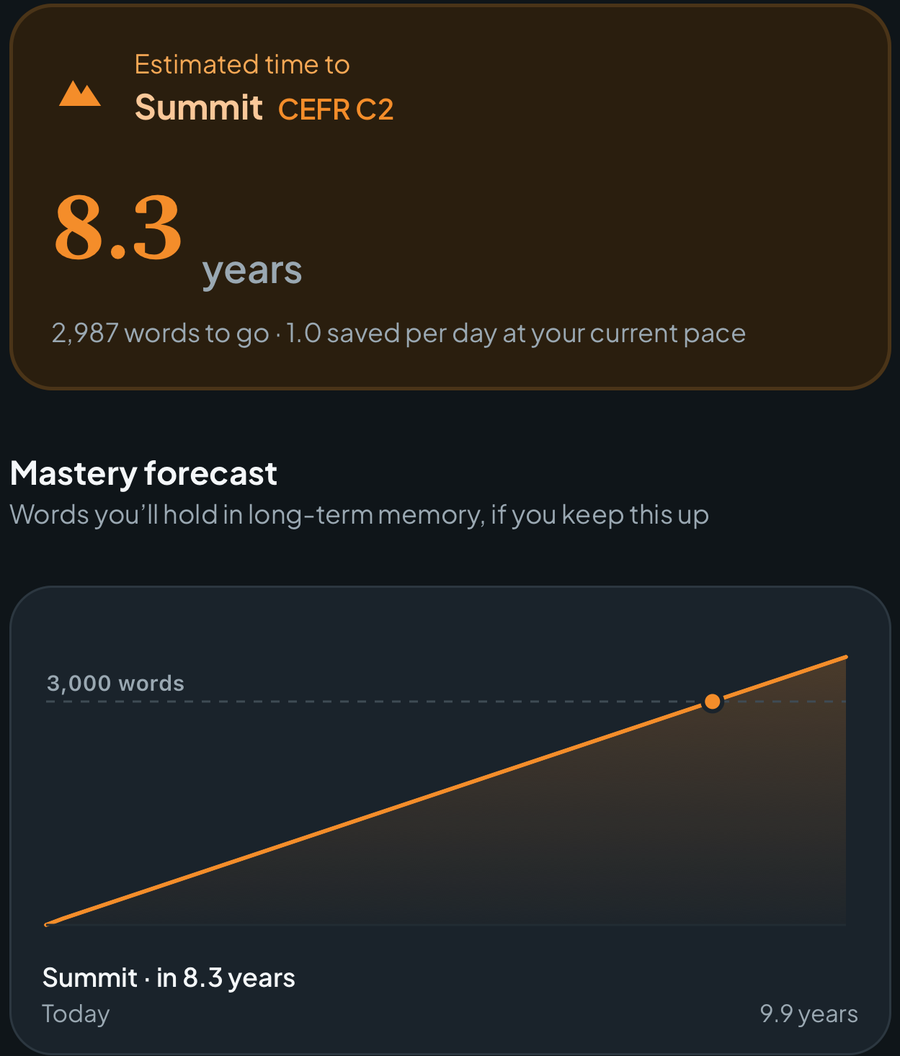
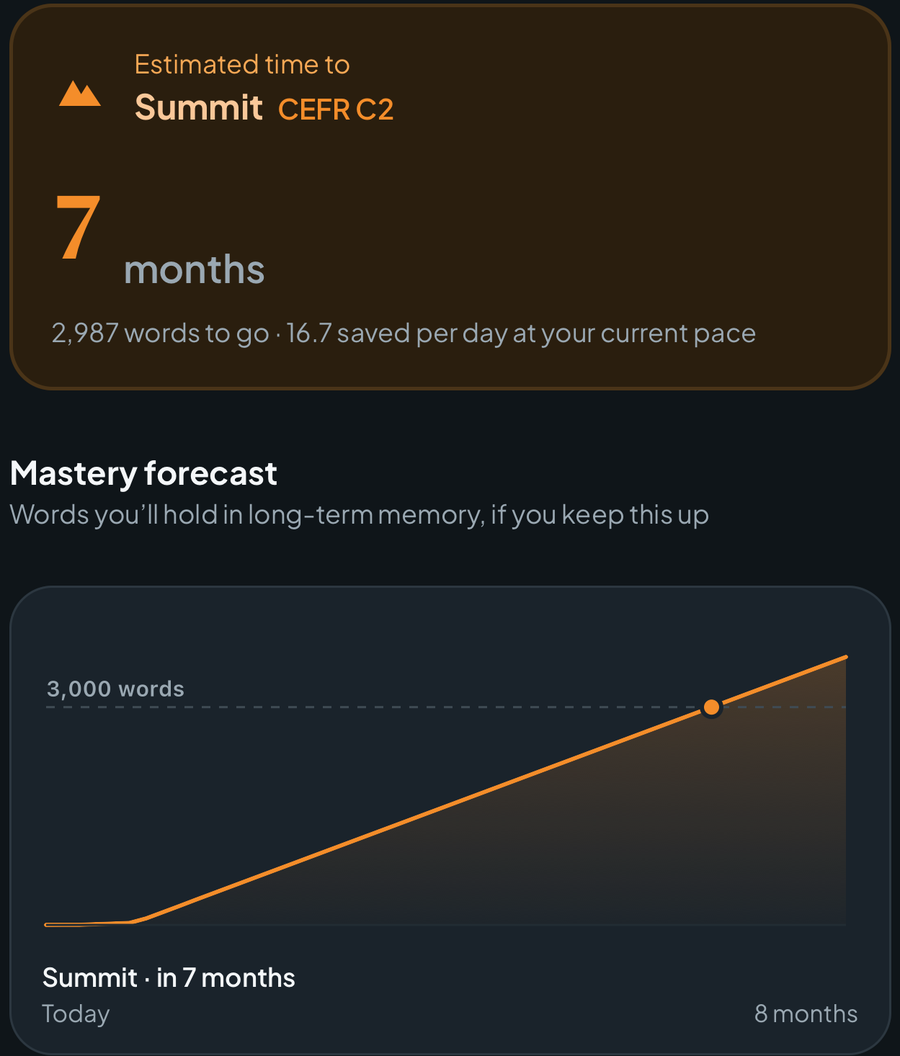
feat(onboarding): rewrite the beat copy, left-align it, re-cut the summit shot
Copy pass across all six story beats plus the notification and account-create
screens, in BOTH locales (parity is test-enforced). The through-line: name the
problem, then say what Lexicamp does about it in plain terms.

- s1 leads with "The problem:" and now says what the app DOES with the
  forgetting curve (schedules reviews before you forget) rather than that it
  "leverages" it.
- s2/s3 describe the deck by what they exclude, which is the actual product
  claim — you study only what needs review.
- s4 tracks words "into long term memory" instead of the vaguer strengthening.
- s5/s6 both close on the summit; s6's title drops the possessive route framing
  for "The summit is closer than you think", which is what the 7-month
  projection above it now supports.
- `auth.createSub` reuses the tagline already on the welcome screen, so the
  first and last screens of the funnel agree.

`storyBody` is left-aligned to match the title. A flush-left header over centred
body copy read as a layout bug rather than a choice; title, body and note now
share one left edge. (`storyNote` is still centred — it sits below the art,
visually detached from that block. Say the word and it moves too.)

The projection shot is re-cut against the new 17-word/day fixture: it reads
**7 months** where it read 8.3 years. Both appearances re-captured at the same
crop and confirmed byte-identical inside a real `expo export`.

diff --git a/src/ui/OnboardingShot.tsx b/src/ui/OnboardingShot.tsx
@@ -75,11 +75,16 @@ const SHOTS = {
     ratio: 900 / 559,
     frame: true,
   },
-  // Re-cut 2026-08-08 from the Projection tab's **Summit** pill (it was the
-  // "Next camp" view, which showed a 100-word A2 threshold). The beat it serves
-  // opens the arc with "3,000 words is 95% of everyday speech", so the shot has
-  // to show the 3,000-word summit line — a next-camp crop argued for a
-  // different number than the sentence above it.
+  // Re-cut from the Projection tab's **Summit** pill (it was the "Next camp"
+  // view, which showed a 100-word A2 threshold). The beat it serves opens the
+  // arc with "3,000 words is 95% of everyday speech", so the shot has to show
+  // the 3,000-word summit line — a next-camp crop argued for a different number
+  // than the sentence above it.
+  //
+  // Re-cut a second time after `MOCK_CAPTURE_PER_DAY` went to 17 (data/mock.ts).
+  // At the old 1.0-word/day fixture the same view read **8.3 years**, which is a
+  // deterrent to open an onboarding arc with; it now reads **7 months**. If that
+  // constant moves again, this pair is stale — re-cut it.
   projection: {
     light: require('../../assets/images/onboarding/onboarding-projection.png'),
     dark: require('../../assets/images/onboarding/onboarding-projection-dark.png'),

diff --git a/src/screens/OnboardingScreen.tsx b/src/screens/OnboardingScreen.tsx
@@ -373,7 +373,10 @@ const styles = StyleSheet.create((theme) => {
     // ragged silhouette. Flush-left they start at the same x as the dots above
     // and the buttons below, so the eye lands in one place across all six.
     storyTitle: { alignSelf: 'stretch', fontFamily: fonts.serif.semibold, fontSize: 27, lineHeight: 33, letterSpacing: -0.5, color: color.brandStrong, textAlign: 'left', marginBottom: 10 },
-    storyBody: { alignSelf: 'stretch', fontFamily: fonts.sans.regular, fontSize: 15, lineHeight: 23, color: color.textBody, textAlign: 'center', marginBottom: 20 },
+    // Left too, for the same reason as the title above it — and because a
+    // flush-left header over centred body copy reads as a layout bug rather
+    // than a choice. Title, body and note now share one left edge.
+    storyBody: { alignSelf: 'stretch', fontFamily: fonts.sans.regular, fontSize: 15, lineHeight: 23, color: color.textBody, textAlign: 'left', marginBottom: 20 },
     storyArt: { alignSelf: 'stretch', flex: 1, justifyContent: 'center', alignItems: 'center', marginBottom: 8 },
     // The `*` in the body points here. Faint on purpose: it is a citation, not a
     // second sentence competing with the caption above the art.
